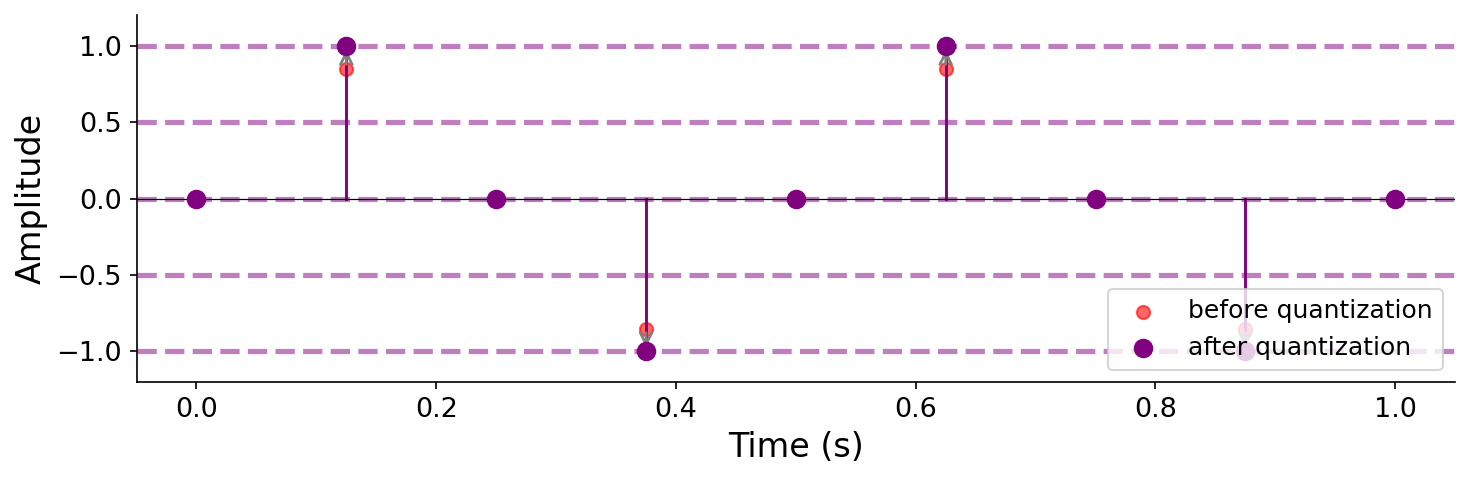
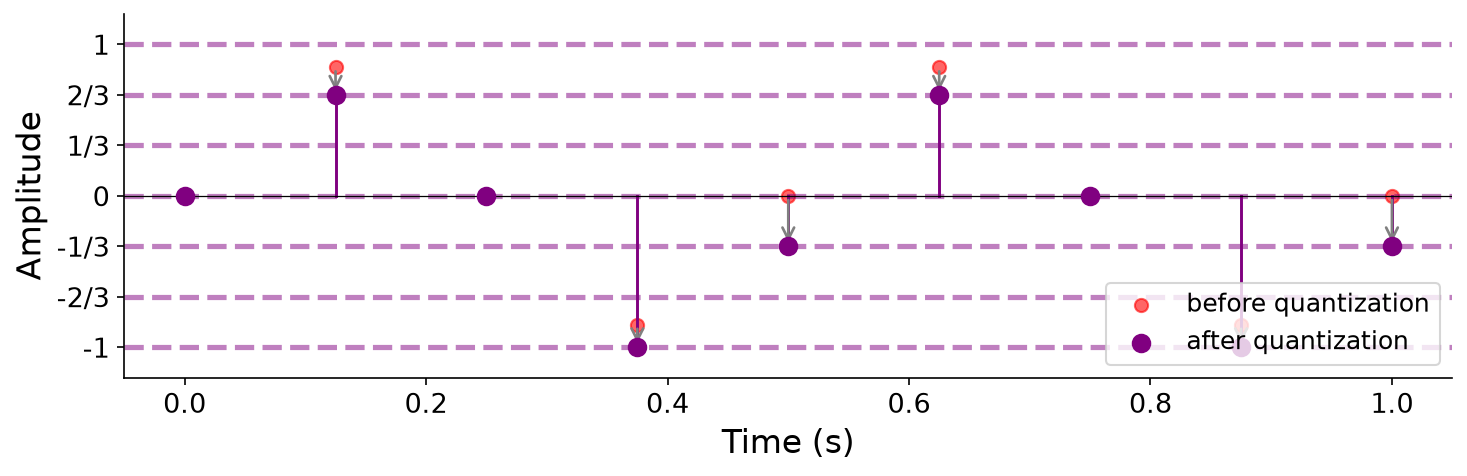
(Claude) Fixes

Changed region(s): [[0.0, 0.0588, 1.0, 0.8824], [0.4908, 0.8824, 0.6135, 0.9706]]

diff --git a/01-sound-audio/figures/make_figures.py b/01-sound-audio/figures/make_figures.py
@@ -83,14 +83,21 @@ def fig_sampling():
 
 
 def fig_quantization():
+    b = 3                                  # bit depth: Z_3 has 2^3 = 8 integer levels
+    scale = 2 ** (b - 1) - 1               # = 3, matching x_hat = floor(scale * x)
     f_s = 8
     n = np.arange(f_s + 1)
     t_samp = n / f_s
     # peak amplitude < 1 so that samples don't land exactly on quantization
-    # levels — otherwise the figure would show zero rounding error.
+    # levels — otherwise the figure would show zero quantization error.
     x_samp = 0.85 * np.sin(2 * np.pi * 2 * t_samp)
-    levels = np.array([-1, -0.5, 0, 0.5, 1])
-    x_quant = np.array([levels[np.argmin(np.abs(levels - v))] for v in x_samp])
+    x_int = np.floor(scale * x_samp)       # signed PCM: truncate toward -infinity
+    x_quant = x_int / scale                # reconstructed amplitude of each level
+    # representable amplitude levels k / scale that fall within [-1, 1]
+    ks = np.arange(-scale, scale + 1)
+    levels = ks / scale
+    labels = ["0" if k == 0 else "1" if k == scale else "-1" if k == -scale
+              else f"{k}/{scale}" for k in ks]
     _, ax = plt.subplots(figsize=(10, 3.4))
     for L in levels:
         ax.axhline(L, color="purple", linestyle="--", alpha=0.5)
@@ -105,6 +112,7 @@ def fig_quantization():
     ax.set_xlabel("Time (s)")
     ax.set_ylabel("Amplitude")
     ax.set_yticks(levels)
+    ax.set_yticklabels(labels)
     ax.set_ylim(-1.2, 1.2)
     ax.legend(fontsize=12, loc="lower right")
     save("fig-quantization.png")

diff --git a/01-sound-audio/index.md b/01-sound-audio/index.md
@@ -101,13 +101,11 @@ $$\hat{x}[n] = \lfloor (2^{b-1} - 1) \cdot x[n] \rfloor \in \mathbb{Z}_b.$$
 
 For example, at $b = 16$ ("CD quality"), $\mathbb{Z}_{16}$ contains the $2^{16} = 65{,}536$ integers between $-32{,}768$ and $32{,}767$, and amplitudes of $\{-1.0, 0.0, 1.0\}$ correspond to integers $\{-32767, 0, 32767\}$ respectively ($-32768$ is unused).
 
-CLAUDE: this shows rounding and is thus out of date now with the flooring operation above. change the figure to be consistent. use $\mathbb{Z}_3$
 :::{figure}
-![Sample points before and after quantization, with dashed horizontal lines showing the discrete amplitude levels and arrows indicating the rounding of each sample to its nearest level](./assets/fig-quantization.png)
+![Sample points before and after quantization to three-bit signed PCM (the eight levels of the set Z_3), with dashed horizontal lines showing the representable amplitude levels and arrows indicating the flooring of each sample down to the representable level at or below it](./assets/fig-quantization.png)
 :::
 
-CLAUDE: fix the reference (chapter 7.7 quantization and decibels)
-Quantization is _lossy_: any two amplitudes that round to the same integer become indistinguishable in $\hat{x}[n]$. We will study and quantify the impacts of amplitude quantization when we study [sampling](TODO) in more detail.
+Quantization is _lossy_: any two amplitudes that floor to the same integer become indistinguishable in $\hat{x}[n]$. We will study and quantify the impacts of amplitude quantization when we cover {ref}`quantization and decibels <sec-quantization-decibels>` in more detail.
 
 A signal sampled at $f_s$ samples per second and quantized to $b$ bits per sample has a _bitrate_
 
@@ -133,8 +131,7 @@ When synthesizing or manipulating samples in memory, the conventions differ. Whe
 
 To actually _hear_ digital audio, the discrete sample sequence has to be converted back into a continuous voltage that can drive a loudspeaker. This is the job of a _digital-to-analog converter_ (_DAC_), a piece of hardware in every phone, laptop, and audio interface.
 
-CLAUDE: add chapter 9 ref
-A DAC takes the integer samples, produces a piecewise-constant ("staircase") voltage signal, and then applies a _reconstruction filter_ that smooths the staircase back into a continuous waveform (more on filters later in Chapter 9). The whole round-trip pipeline (analog input, through ADC and DAC, back to analog output) looks like this:
+A DAC takes the integer samples, produces a piecewise-constant ("staircase") voltage signal, and then applies a _reconstruction filter_ that smooths the staircase back into a continuous waveform (more on filters later in [Chapter 9](../09-filters)). The whole round-trip pipeline (analog input, through ADC and DAC, back to analog output) looks like this:
 
 :::{figure}
 ![Four vertically stacked plots showing the ADC-DAC round trip: analog input sine wave, discrete samples after ADC, staircase reconstruction before filtering, and smooth analog output after DAC](./assets/fig-adc-dac-pipeline.png)
@@ -182,11 +179,9 @@ $$y[n] = x[n] / x_{\text{max}}, \text{where}~ x_{\text{max}} = \max_{n \in \{0, 
 
 ## Summary
 
-CLAUDE: sync w/ any changes I made above
-
 - Physical sound is a traveling pattern of air-pressure variation. Analog sound is a continuous signal $x(t) : \mathbb{R} \to \mathbb{R}$ describing the time-varying pressure measured at a single point.
 - _Amplitude_ is, by convention, a unitless quantity in $[-1, 1]$, proportional to the underlying pressure: $x(t) = p(t) / p_{\max}$.
-- _Analog-to-digital conversion_ (ADC) discretizes time and amplitude: _sample_ at rate $f_s$, then _quantize_ each amplitude to a $b$-bit signed integer in $\mathbb{Z}_b$ via $\hat{x}[n] = \lfloor 2^{b-1} \cdot x[n] \rfloor$.
+- _Analog-to-digital conversion_ (ADC) discretizes time and amplitude: _sample_ at rate $f_s$, then _quantize_ each amplitude to a $b$-bit signed integer in $\mathbb{Z}_b$ via $\hat{x}[n] = \lfloor (2^{b-1} - 1) \cdot x[n] \rfloor$.
 - The bitrate $f_s \cdot b$ tells you how much disk space uncompressed audio takes (CD-quality mono is about $88 {unit}`kilobytes,seconds`$).
 - The discrete representation $x[n] = x(n / f_s)$ is what computers manipulate; we use parentheses for continuous time, square brackets for sample indices. In memory we use floats for arithmetic convenience; quantization shows up at the storage boundary.
 - A _DAC_ reconstructs an analog signal by smoothing the discrete samples back into a continuous voltage; under conditions we will study later, this reconstruction can be made perceptually indistinguishable from the original.

diff --git a/07-sampling-theory/index.md b/07-sampling-theory/index.md
@@ -234,6 +234,8 @@ This explains the standard audio sample rates of 44.1 kHz and 48 kHz. Both comfo
 1. They leave a little _headroom_ above the 40 kHz minimum to accommodate the fact that real anti-aliasing filters cannot cut off perfectly sharply at exactly 20 kHz.
 1. They are convenient integer multiples of common video frame rates (like 50 and 60 Hz), which simplified building data formats that interleave video with its accompanying audio.
 
+(sec-quantization-decibels)=
+
 ## Quantization and decibels
 
 Sampling is only half the battle in converting continuous sound to digital audio. Recall from {ref}`Chapter 1 <sec-quantization>` that we must also _quantize_ the real-valued samples so they can be stored in a finite number of bits. Using signed pulse-code modulation with a bit depth of $b$, we round each amplitude to its nearest representable integer:
